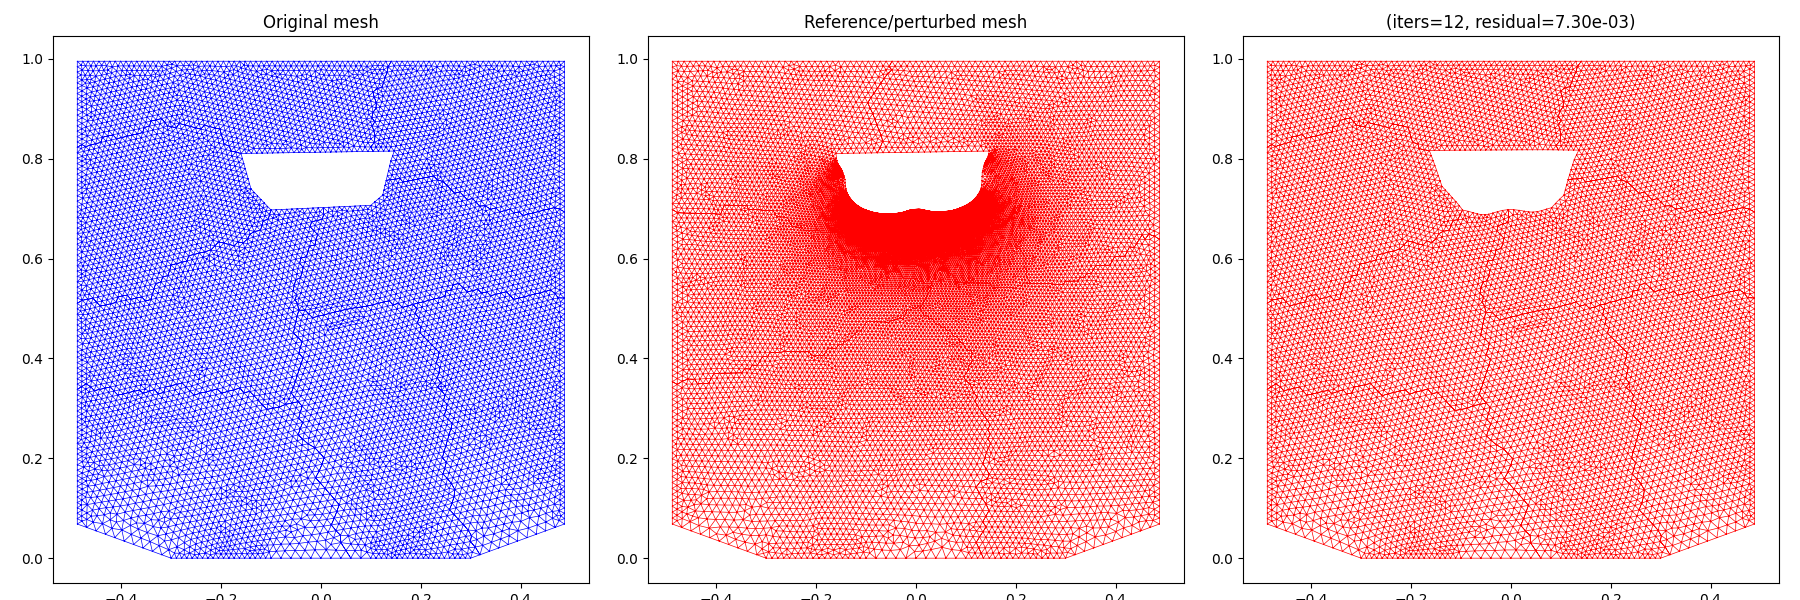
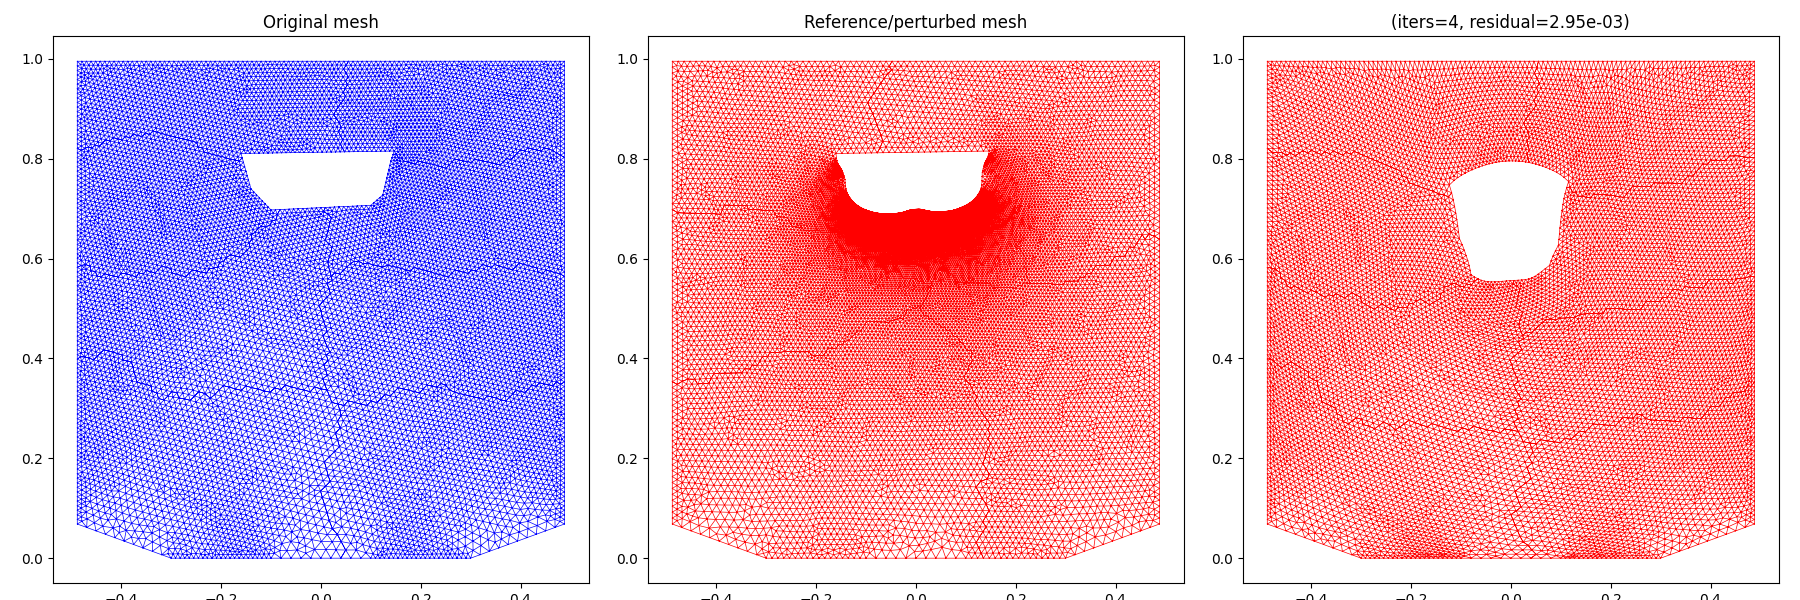
result from 6.5 GHz

diff --git a/reflection_torso/opt_script.py b/reflection_torso/opt_script.py
@@ -53,7 +53,7 @@ h_V = transfer_from_boundary(h, mesh)
 h_V.rename("Volume extension of h", "")
 ##########################
 
-scale_fac = 500
+scale_fac = 50
 
 for tx_i, tx in enumerate(wave_sources):
     inc_wave_setup = IncidentWaveSetup(frequency, cylindrical_wave(amp, tx))
